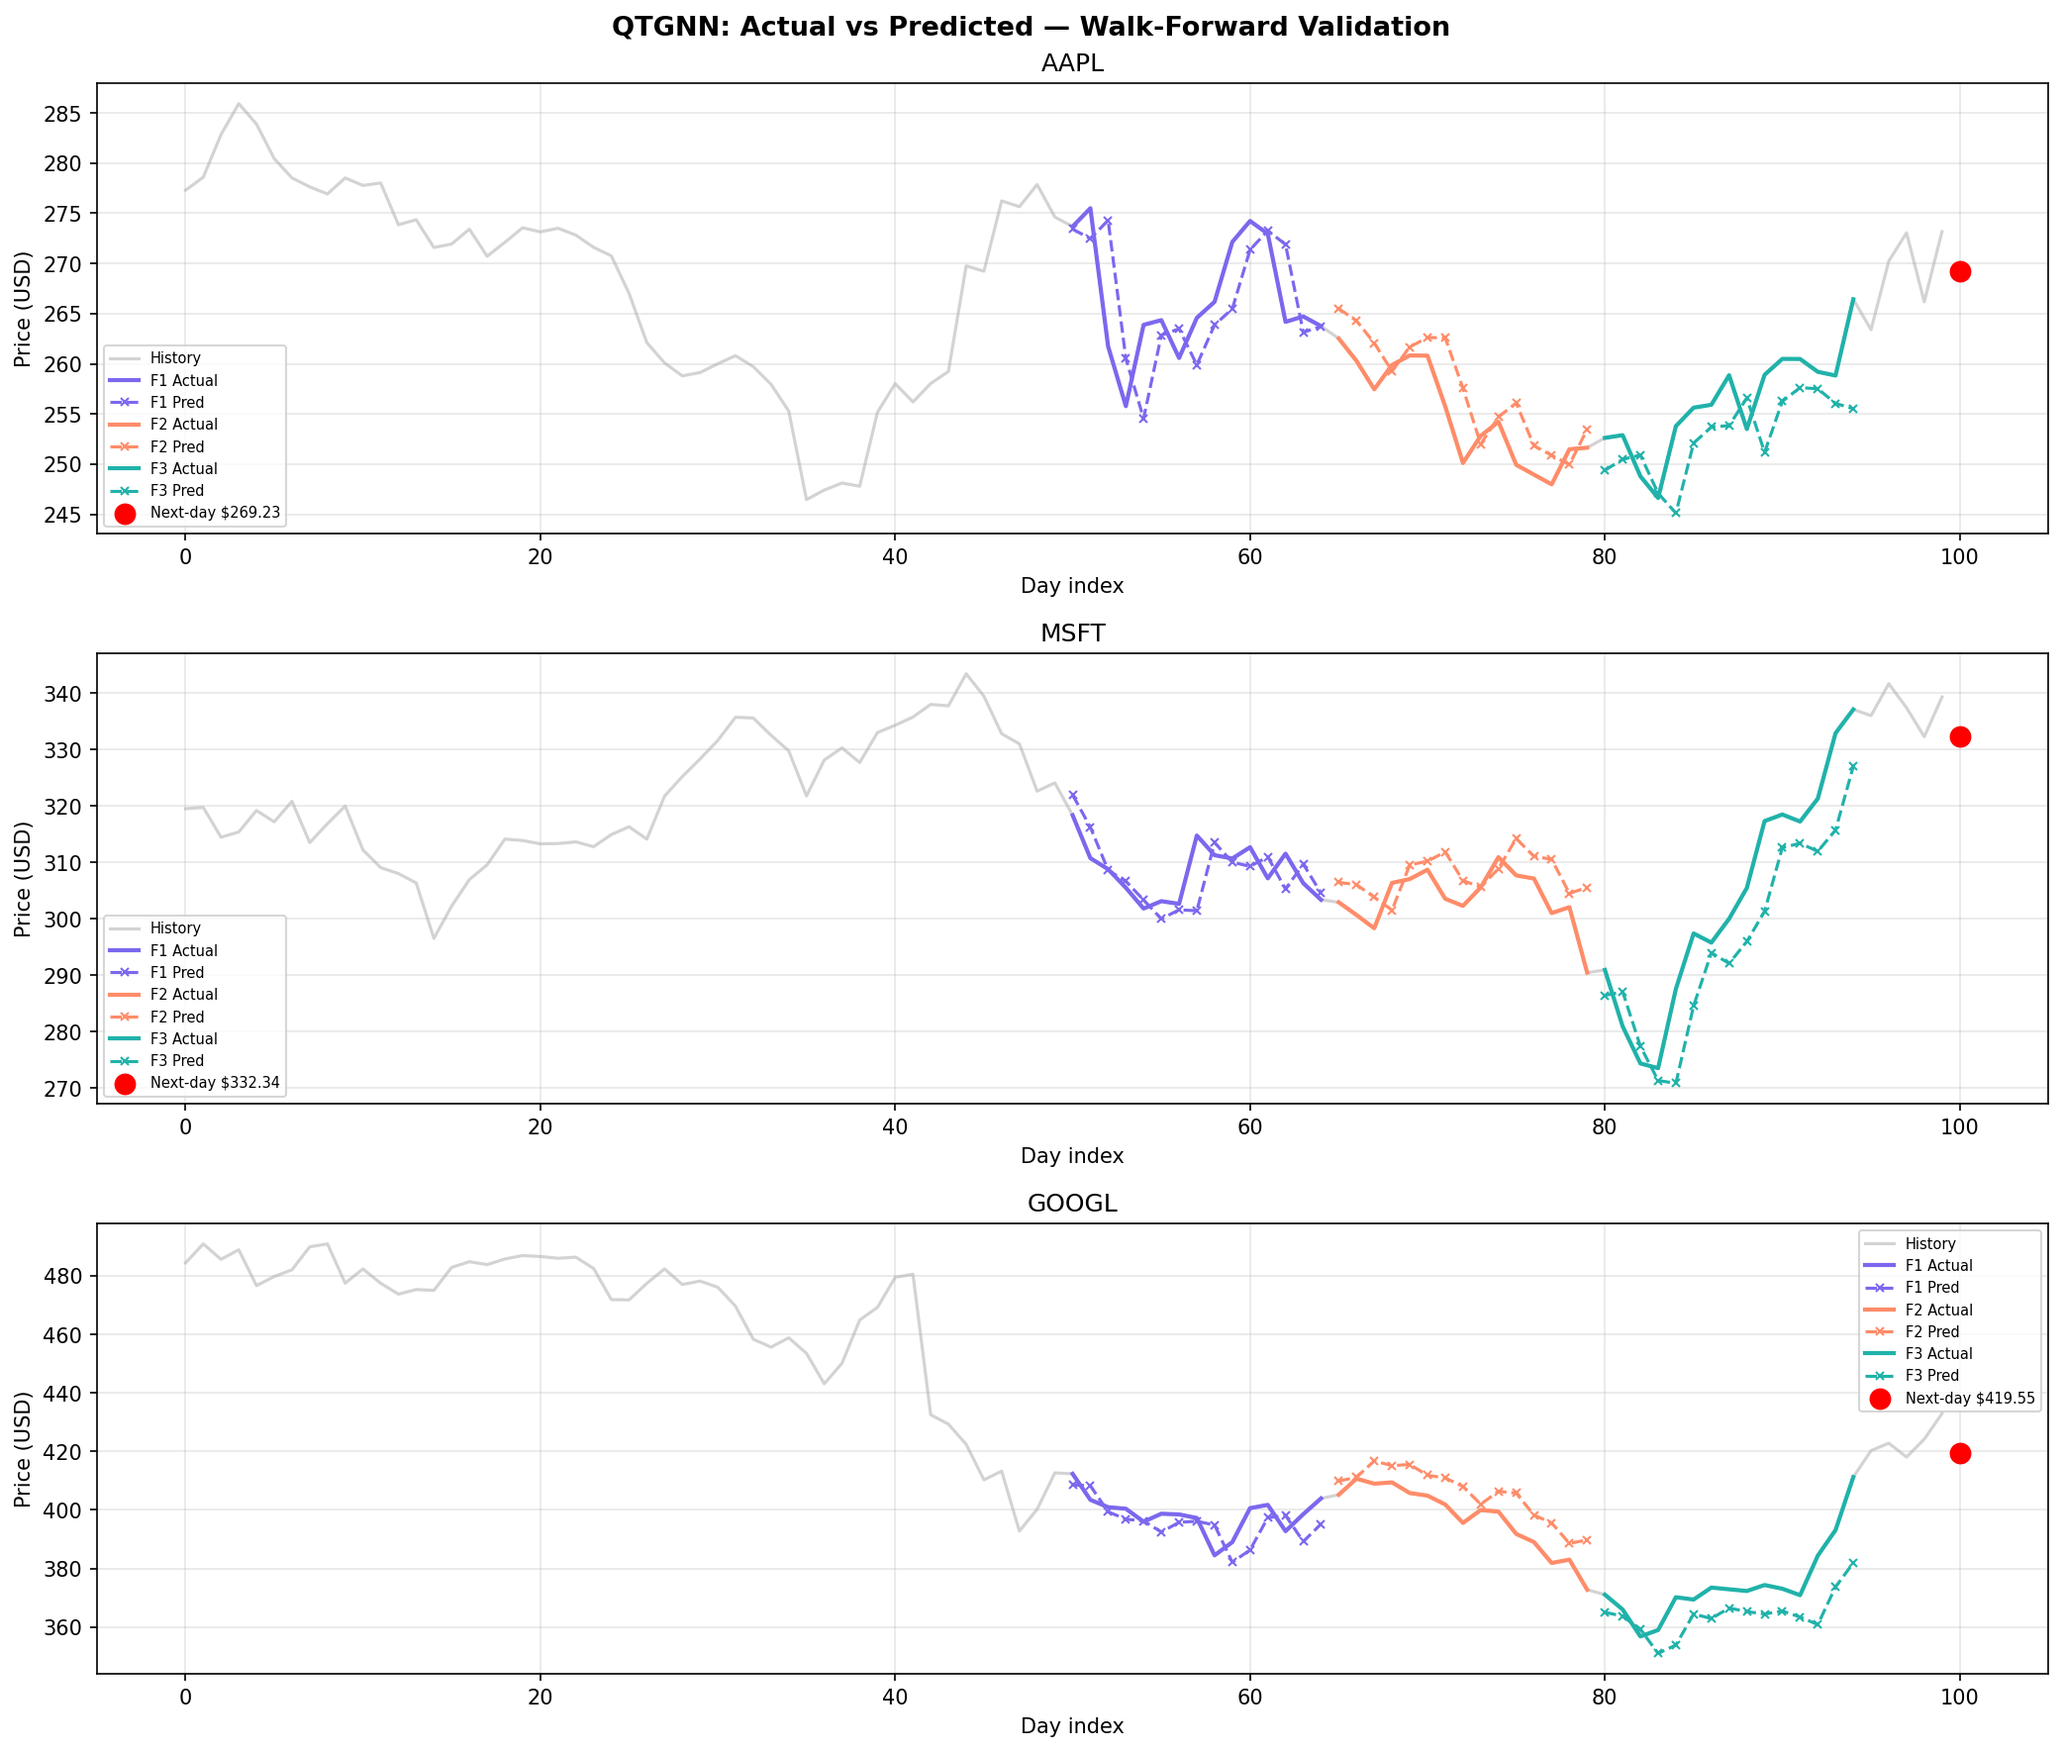
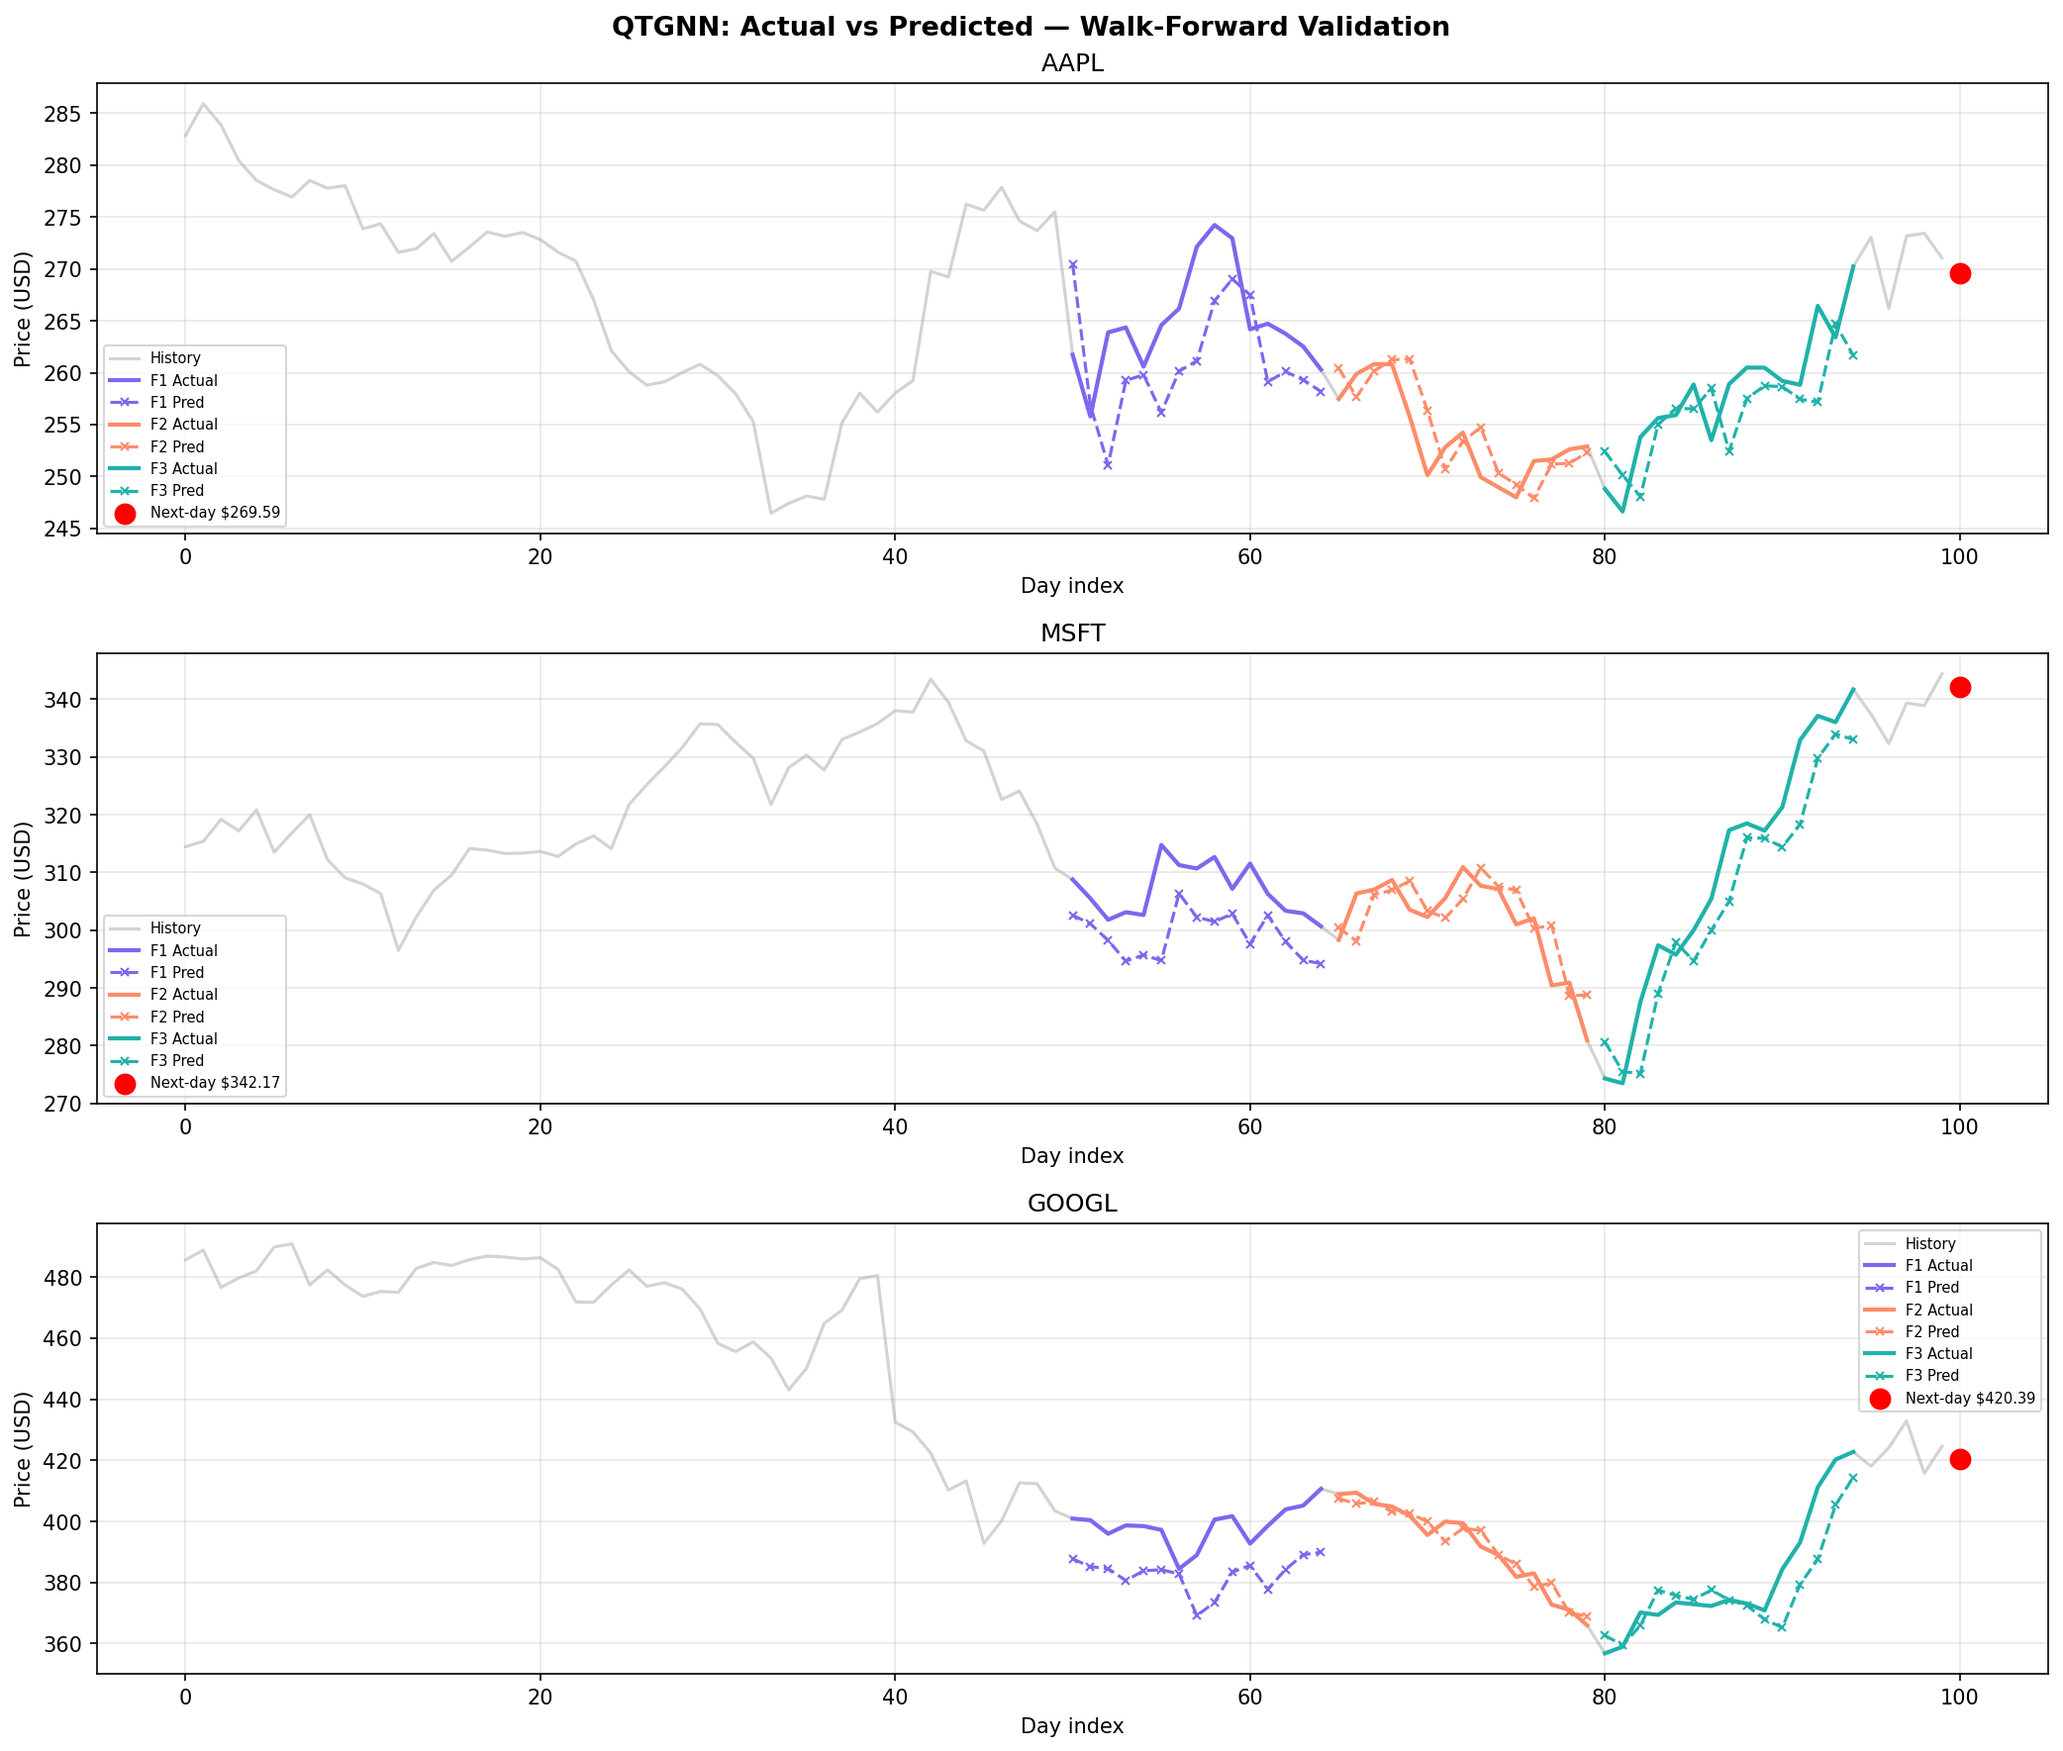
Implement SOTA QTGNN improvements: residual connections, equivariant weights, edge-attr encoding, deeper re-uploading, split LR
- N_REUP 2→3 for greater Fourier expressivity (quantum graphon paper)
- Equivariant parameter sharing across wires per layer (EQGCs)
- Rolling correlation encoded into wire 0 of quantum circuit per re-upload block
- Residual skip connection in QGATConv.update() to mitigate barren plateaus (ResQNets)
- Split Adam LR: classical 1e-2, quantum 1e-3 (QBGU)
- Updated plots from successful run

diff --git a/main.py b/main.py
@@ -36,7 +36,7 @@ TICKERS    : List[str] = ["AAPL", "MSFT", "GOOGL"]
 SEQ_LEN    : int       = 10
 N_WIRES    : int       = 4
 N_Q_LAYERS : int       = 2     # HEA depth per re-upload block
-N_REUP     : int       = 2     # data re-uploading repetitions
+N_REUP     : int       = 3     # data re-uploading repetitions
 GRU_HIDDEN : int       = 16
 CORR_WIN   : int       = 30    # rolling correlation window (days)
 BATCH_SIZE : int       = 8
@@ -147,27 +147,28 @@ for fi, (a, b, c, d) in enumerate(splits):
     log.info("  Fold %d: train [%d,%d)  val [%d,%d)", fi + 1, a, b, c, d)
 
 # ── Quantum Circuit: HEA with brick-wall CNOT (barren-plateau resistant) ──────
-#   Key improvements over StronglyEntanglingLayers:
-#   - Only nearest-neighbour CNOT (local entanglement)
-#   - Shallow depth (N_Q_LAYERS=2)
+#   - Nearest-neighbour CNOT only (local entanglement, shallow depth)
 #   - Local PauliZ observables (not global)
-#   - Data re-uploading for expressivity without extra depth
+#   - Data re-uploading (N_REUP=3) for Fourier expressivity
+#   - Equivariant weights: RY/RZ shared across wires per layer (reduces params, improves generalisation)
+#   - Rolling correlation encoded into wire 0 per re-upload block
 dev = qml.device("default.qubit", wires=N_WIRES)
 
 @qml.qnode(dev, interface="torch")
-def quantum_circuit(inputs: torch.Tensor, weights: torch.Tensor) -> List:
+def quantum_circuit(inputs: torch.Tensor, weights: torch.Tensor, corr: torch.Tensor) -> List:
     for r in range(N_REUP):
         for i in range(N_WIRES):
             qml.RY(inputs[i], wires=i)
+        qml.RY(corr, wires=0)          # encode rolling correlation into wire 0
         for d in range(N_Q_LAYERS):
             for i in range(N_WIRES):
-                qml.RY(weights[r, d, i, 0], wires=i)
-                qml.RZ(weights[r, d, i, 1], wires=i)
+                qml.RY(weights[r, d, 0], wires=i)   # equivariant: shared across wires
+                qml.RZ(weights[r, d, 1], wires=i)
             for i in range(d % 2, N_WIRES - 1, 2):   # alternating brick-wall
                 qml.CNOT(wires=[i, i + 1])
     return [qml.expval(qml.PauliZ(w)) for w in range(N_WIRES)]
 
-Q_WEIGHT_SHAPE: Tuple[int, ...] = (N_REUP, N_Q_LAYERS, N_WIRES, 2)
+Q_WEIGHT_SHAPE: Tuple[int, ...] = (N_REUP, N_Q_LAYERS, 2)   # equivariant: shared per layer
 
 # ── Graph attention helpers ───────────────────────────────────────────────────
 def add_self_loops_with_attr(
@@ -211,9 +212,9 @@ class QGATConv(MessagePassing):
         )
         self.norm = nn.LayerNorm(N_WIRES)
 
-    def _qforward(self, x: torch.Tensor) -> torch.Tensor:
+    def _qforward(self, x: torch.Tensor, corr: torch.Tensor) -> torch.Tensor:
         return torch.stack([
-            torch.stack(quantum_circuit(x[i], self.q_weights))
+            torch.stack(quantum_circuit(x[i], self.q_weights, corr[i]))
             for i in range(x.size(0))
         ]).float()  # (E, N_WIRES) — cast float64 PL output → float32
 
@@ -230,13 +231,14 @@ class QGATConv(MessagePassing):
         alpha = self.att(torch.cat([h[src], h[dst]], dim=-1)).squeeze(-1)
         alpha = F.leaky_relu(alpha, 0.2) * ea.squeeze(-1).abs()
         alpha = edge_softmax(alpha, dst, N)
-        return self.propagate(ei, h=h, alpha=alpha.unsqueeze(-1))
+        return self.propagate(ei, h=h, alpha=alpha.unsqueeze(-1), ea=ea)
 
-    def message(self, h_j: torch.Tensor, alpha: torch.Tensor) -> torch.Tensor:
-        return alpha * self._qforward(torch.tanh(h_j) * torch.pi)
+    def message(self, h_j: torch.Tensor, alpha: torch.Tensor, ea: torch.Tensor) -> torch.Tensor:
+        corr_angle = torch.tanh(ea.squeeze(-1)) * torch.pi
+        return alpha * self._qforward(torch.tanh(h_j) * torch.pi, corr_angle)
 
-    def update(self, aggr_out: torch.Tensor) -> torch.Tensor:
-        return self.norm(aggr_out)
+    def update(self, aggr_out: torch.Tensor, h: torch.Tensor) -> torch.Tensor:
+        return self.norm(aggr_out + h)   # residual: mitigates barren-plateau gradient vanishing
 
 # ── Full QTGNN ────────────────────────────────────────────────────────────────
 class QTGNNModel(nn.Module):
@@ -255,7 +257,13 @@ class QTGNNModel(nn.Module):
 
 def make_model() -> Tuple[QTGNNModel, torch.optim.Adam]:
     m = QTGNNModel()
-    return m, torch.optim.Adam(m.parameters(), lr=LR)
+    q_params  = [p for n, p in m.named_parameters() if "q_weights" in n]
+    cl_params = [p for n, p in m.named_parameters() if "q_weights" not in n]
+    opt = torch.optim.Adam([
+        {"params": cl_params, "lr": LR},
+        {"params": q_params,  "lr": LR * 0.1},   # quantum params need smaller LR (QBGU)
+    ])
+    return m, opt
 
 # ── Metrics ───────────────────────────────────────────────────────────────────
 def sharpe(p: torch.Tensor, t: torch.Tensor) -> float:
